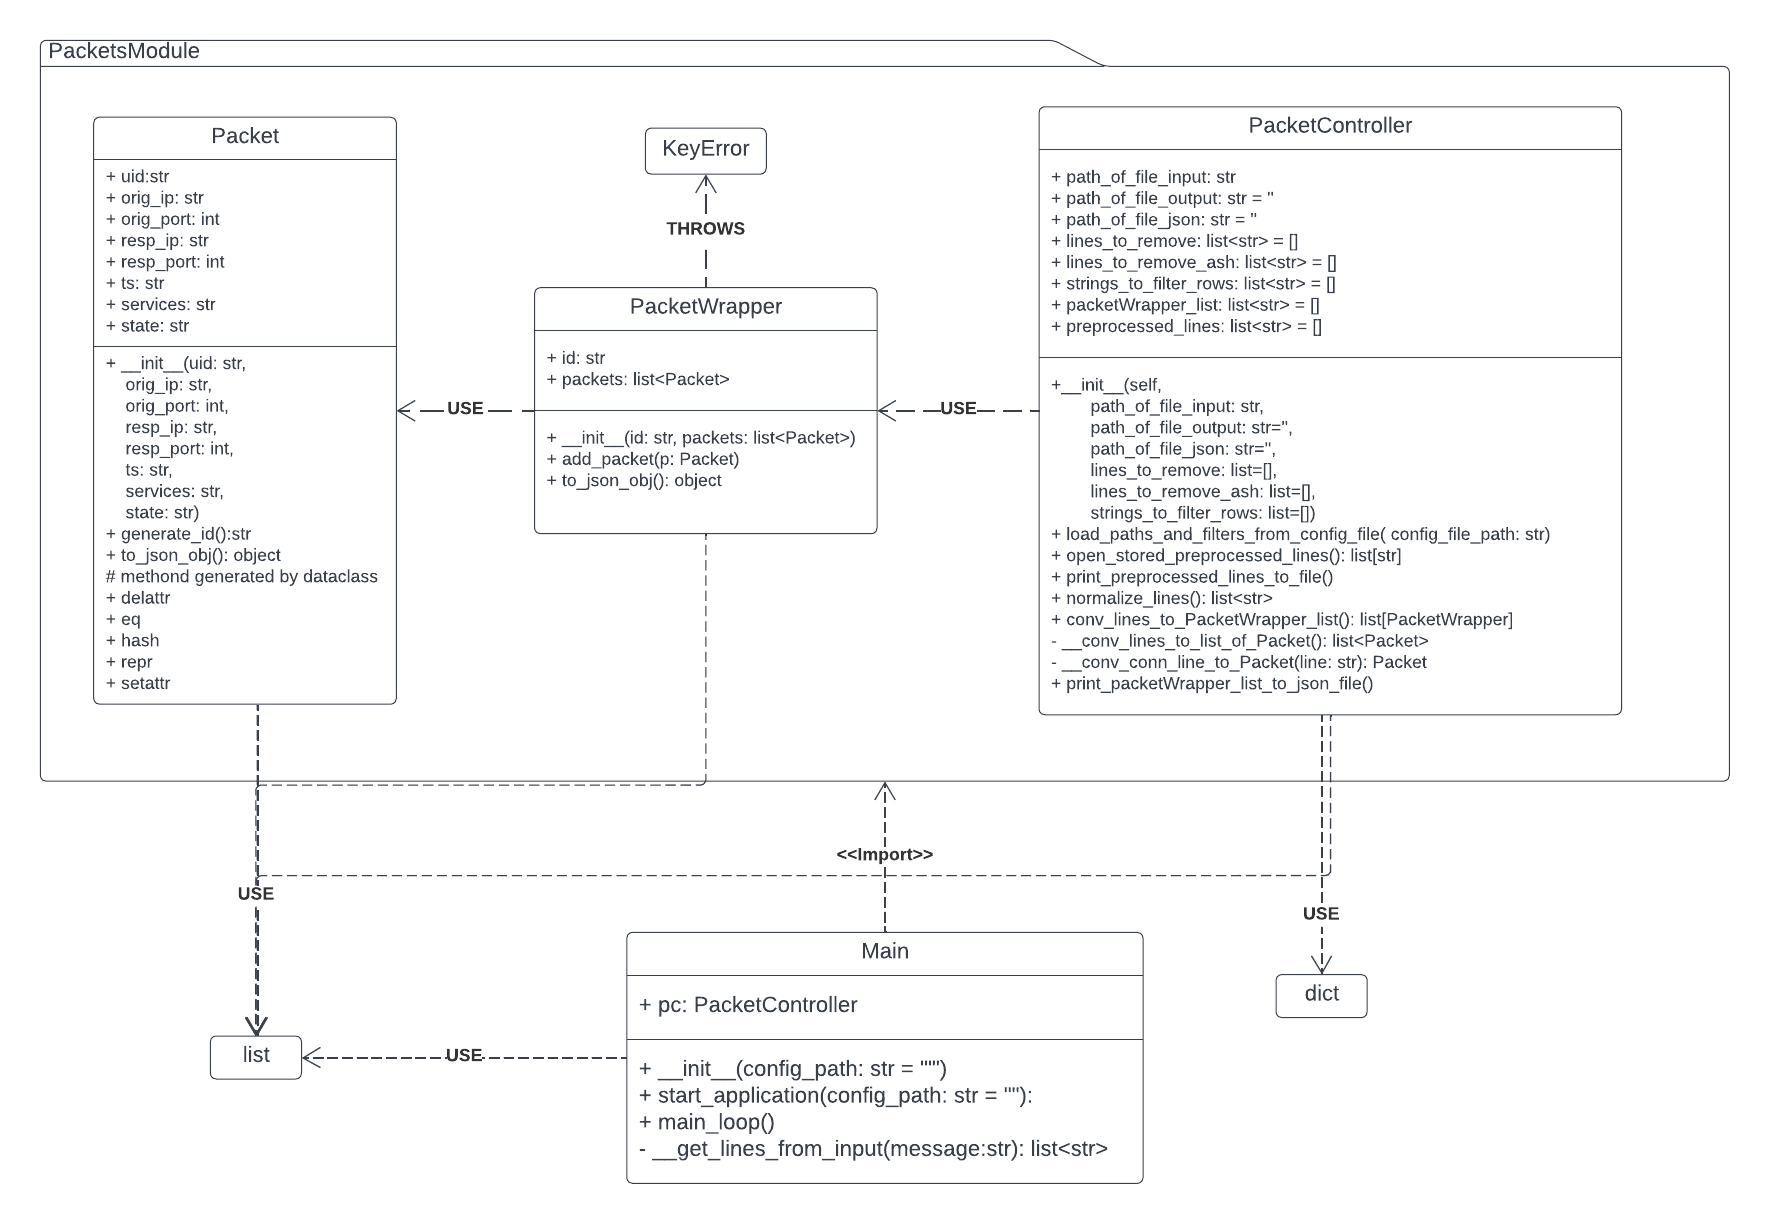
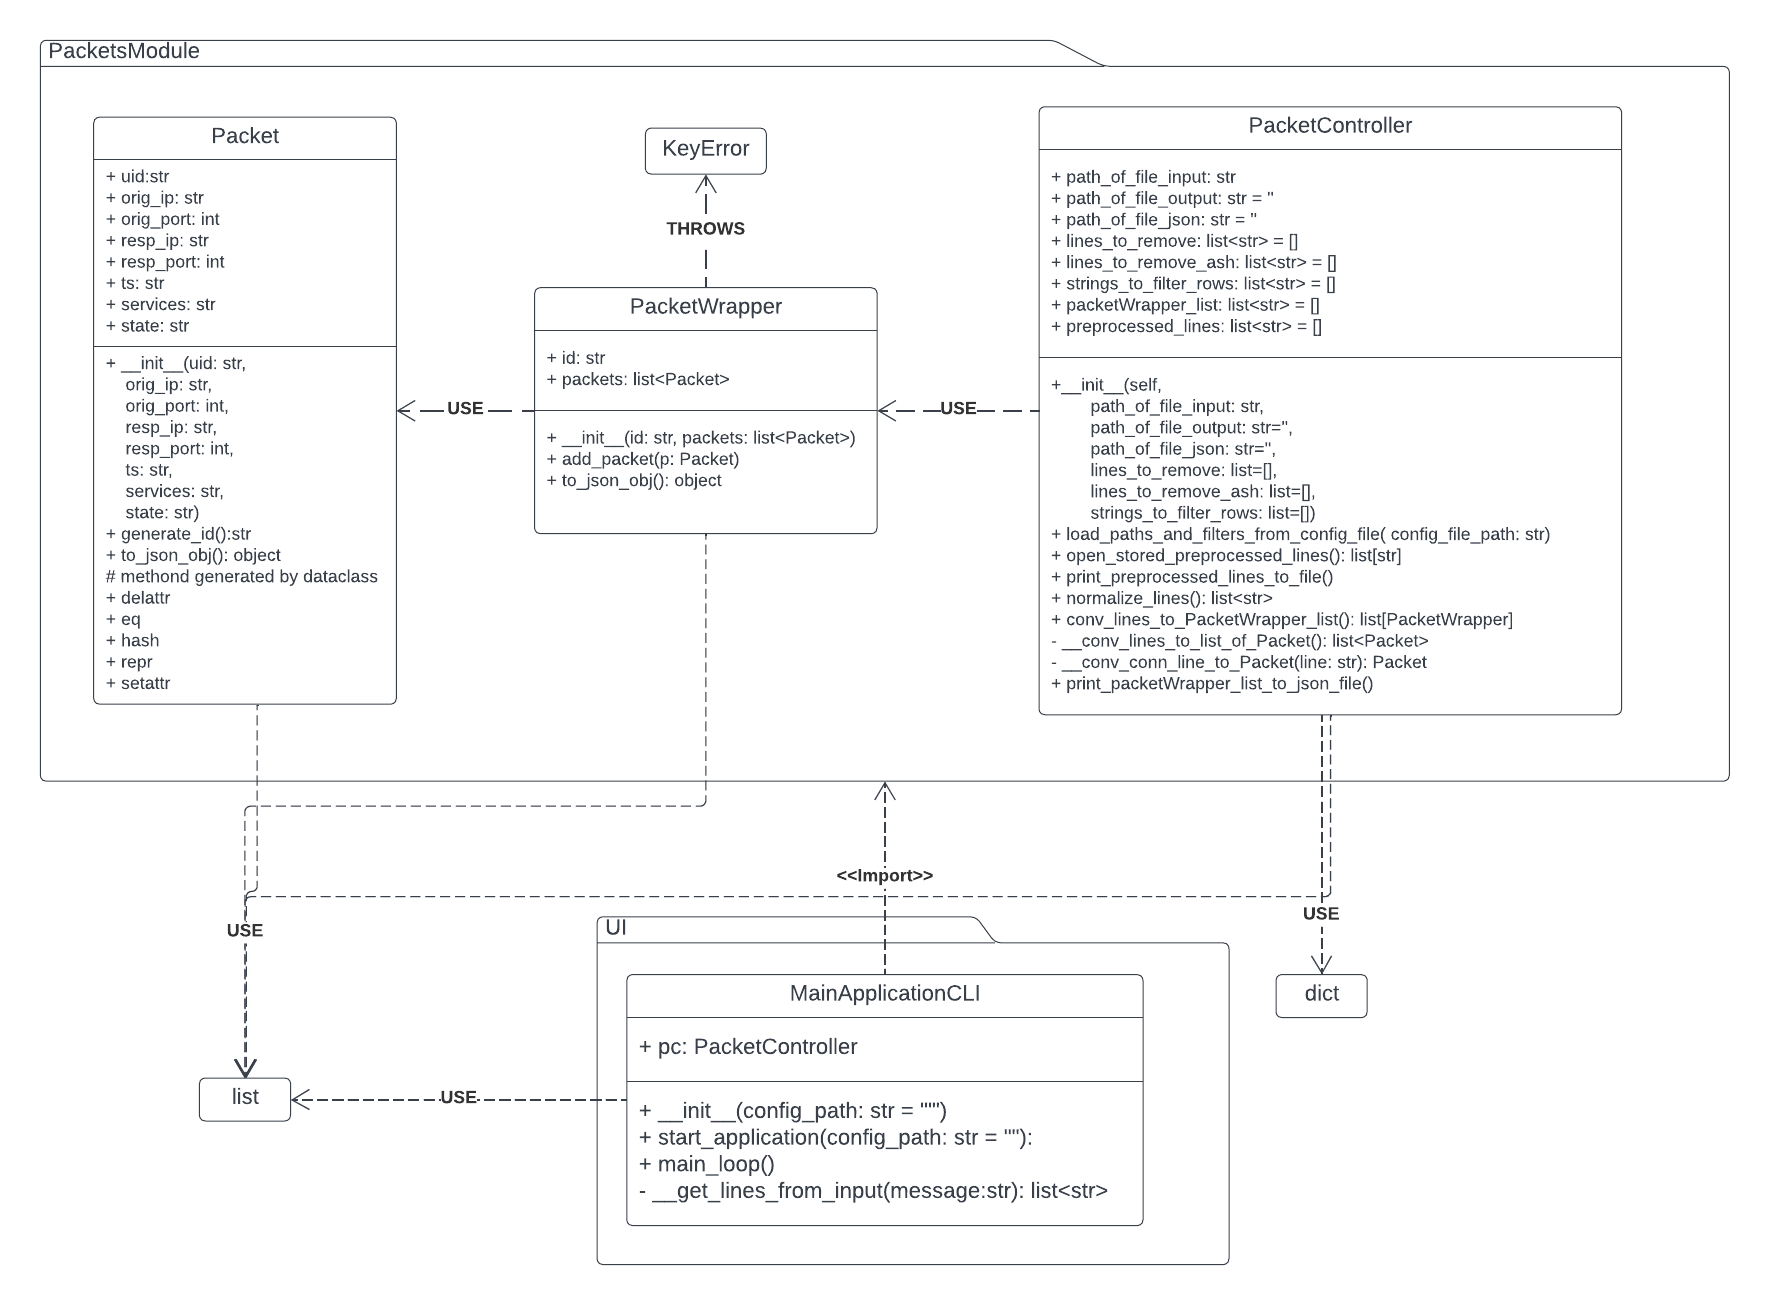
modificato UML e docs

diff --git a/scripts/PacketsHandler/UI/AppCLI.py b/scripts/PacketsHandler/UI/AppCLI.py
@@ -43,17 +43,17 @@ class MainApplicationCLI:
         """
         main loop of the application containig the UI elements that control the PacketController
         for every iteration this allows the user to do one of the following operations:
-        1) read and normalize lines from the file stored in path_of_file_input
-        2) print preprocessed lines to a file
-        3) convert normalized lines to a PacketWrapper list
-        4) print packet wrapper list to a json file
-        5) open stored preprocessed lines
-        6) loads configuration options from config.ini file
-        7) show configuration options
-        8) modify the path of input file
-        9) modify the path of preprocessed lines
-        10) modify the path of json file
-        11) exit program
+            #. read and normalize lines from the file stored in path_of_file_input
+            #. print preprocessed lines to a file
+            #. convert normalized lines to a PacketWrapper list
+            #. print packet wrapper list to a json file
+            #. open stored preprocessed lines
+            #. loads configuration options from config.ini file
+            #. show configuration options
+            #. modify the path of input file
+            #. modify the path of preprocessed lines
+            #. modify the path of json file
+            #. exit program
         """
         while True:
             op = input("""\ntype the number for the various options: 

diff --git a/scripts/PacketsHandler/docs/conf.py b/scripts/PacketsHandler/docs/conf.py
@@ -29,3 +29,5 @@ exclude_patterns = ['_build', 'Thumbs.db', '.DS_Store']
 
 html_theme = 'sphinx_rtd_theme'
 html_static_path = ['_static']
+
+autodoc_member_order = 'bysource'
